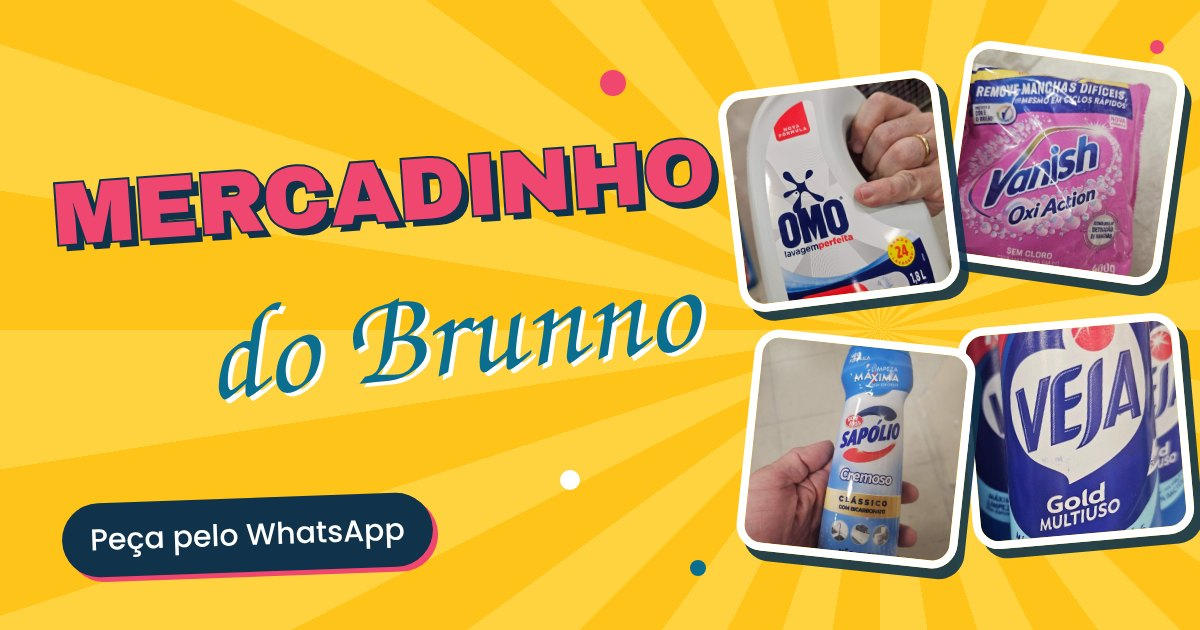
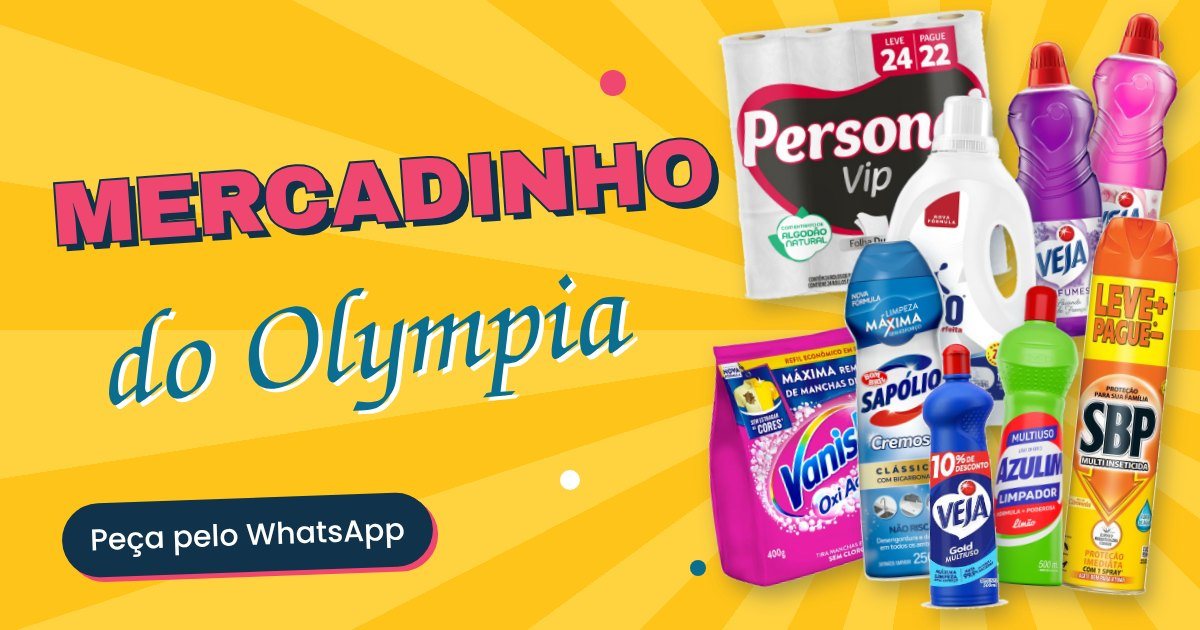
Add files via upload

diff --git a/index.html b/index.html
@@ -4,10 +4,10 @@
 <meta charset="utf-8">
 <meta name="color-scheme" content="light">
 <meta name="viewport" content="width=device-width, initial-scale=1">
-<title>Mercadinho do Brunno</title>
+<title>Mercadinho do Olympia</title>
 <meta name="description" content="Produtos de limpeza com entrega. Peça pelo WhatsApp.">
 <meta property="og:type" content="website">
-<meta property="og:title" content="Mercadinho do Brunno">
+<meta property="og:title" content="Mercadinho do Olympia">
 <meta property="og:description" content="Produtos de limpeza com entrega. Peça pelo WhatsApp.">
 <meta property="og:url" content="https://brunnovianna.github.io/mercadinho/">
 <meta property="og:image" content="https://brunnovianna.github.io/mercadinho/og.jpg">
@@ -134,7 +134,7 @@ button:focus-visible, a:focus-visible { outline: 3px solid var(--accent); outlin
 <body>
 <div class="wrap">
   <header class="top">
-    <h1>Mercadinho do Brunno</h1>
+    <h1>Mercadinho do Olympia</h1>
     <p class="updated">Preços atualizados em 22/11/2026</p>
   </header>
   <ul class="list" id="list"></ul>
@@ -251,7 +251,7 @@ function change(p, d) {
 function orderText() {
   const blocks = LINES.filter(l => qty[l.key] > 0)
     .map(l => `${l.name}\n${l.desc}\n#${l.sku}\n${qty[l.key]} × ${brl(l.price)} = ${brl(l.price * qty[l.key])}`);
-  return `Olá, Brunno!\n\nEsse é meu pedido no Mercadinho:\n\n${blocks.join("\n\n")}\n\nTotal: ${brl(total())}`;
+  return `Olá, Brunno!\n\nEsse é meu pedido no Mercadinho do Olympia:\n\n${blocks.join("\n\n")}\n\nTotal: ${brl(total())}`;
 }
 function total() { return LINES.reduce((s, l) => s + l.price * qty[l.key], 0); }
 
